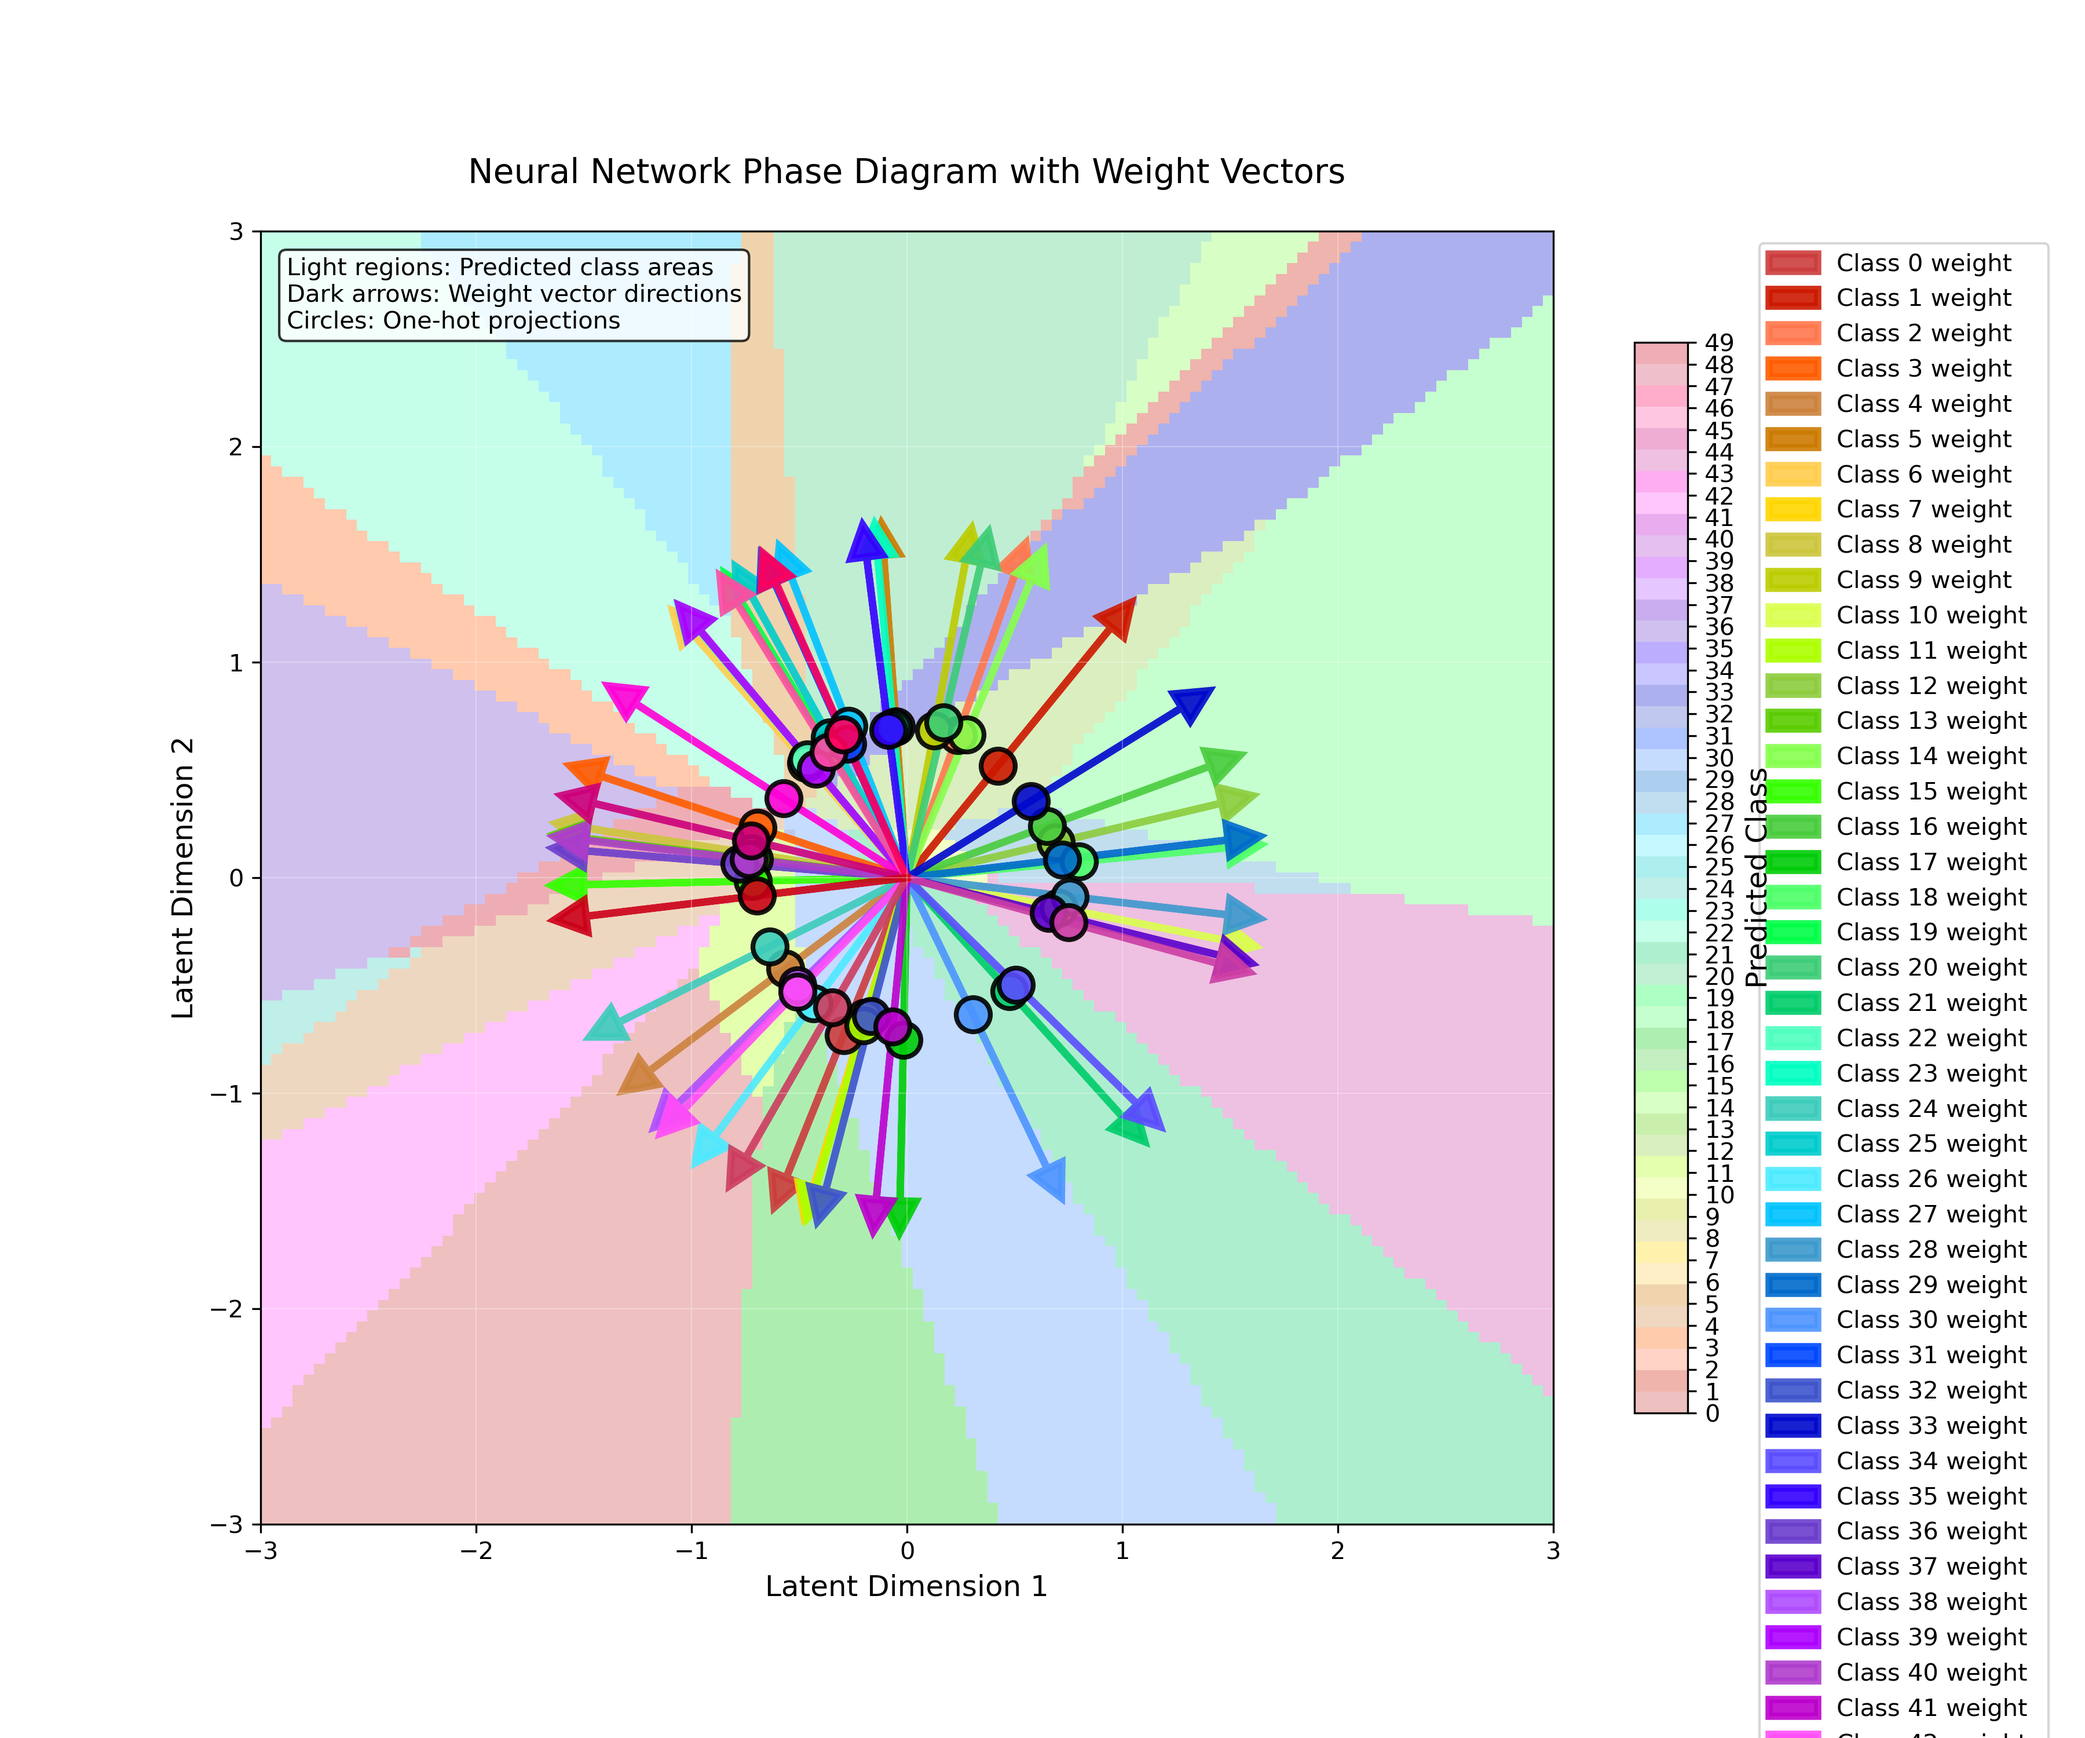
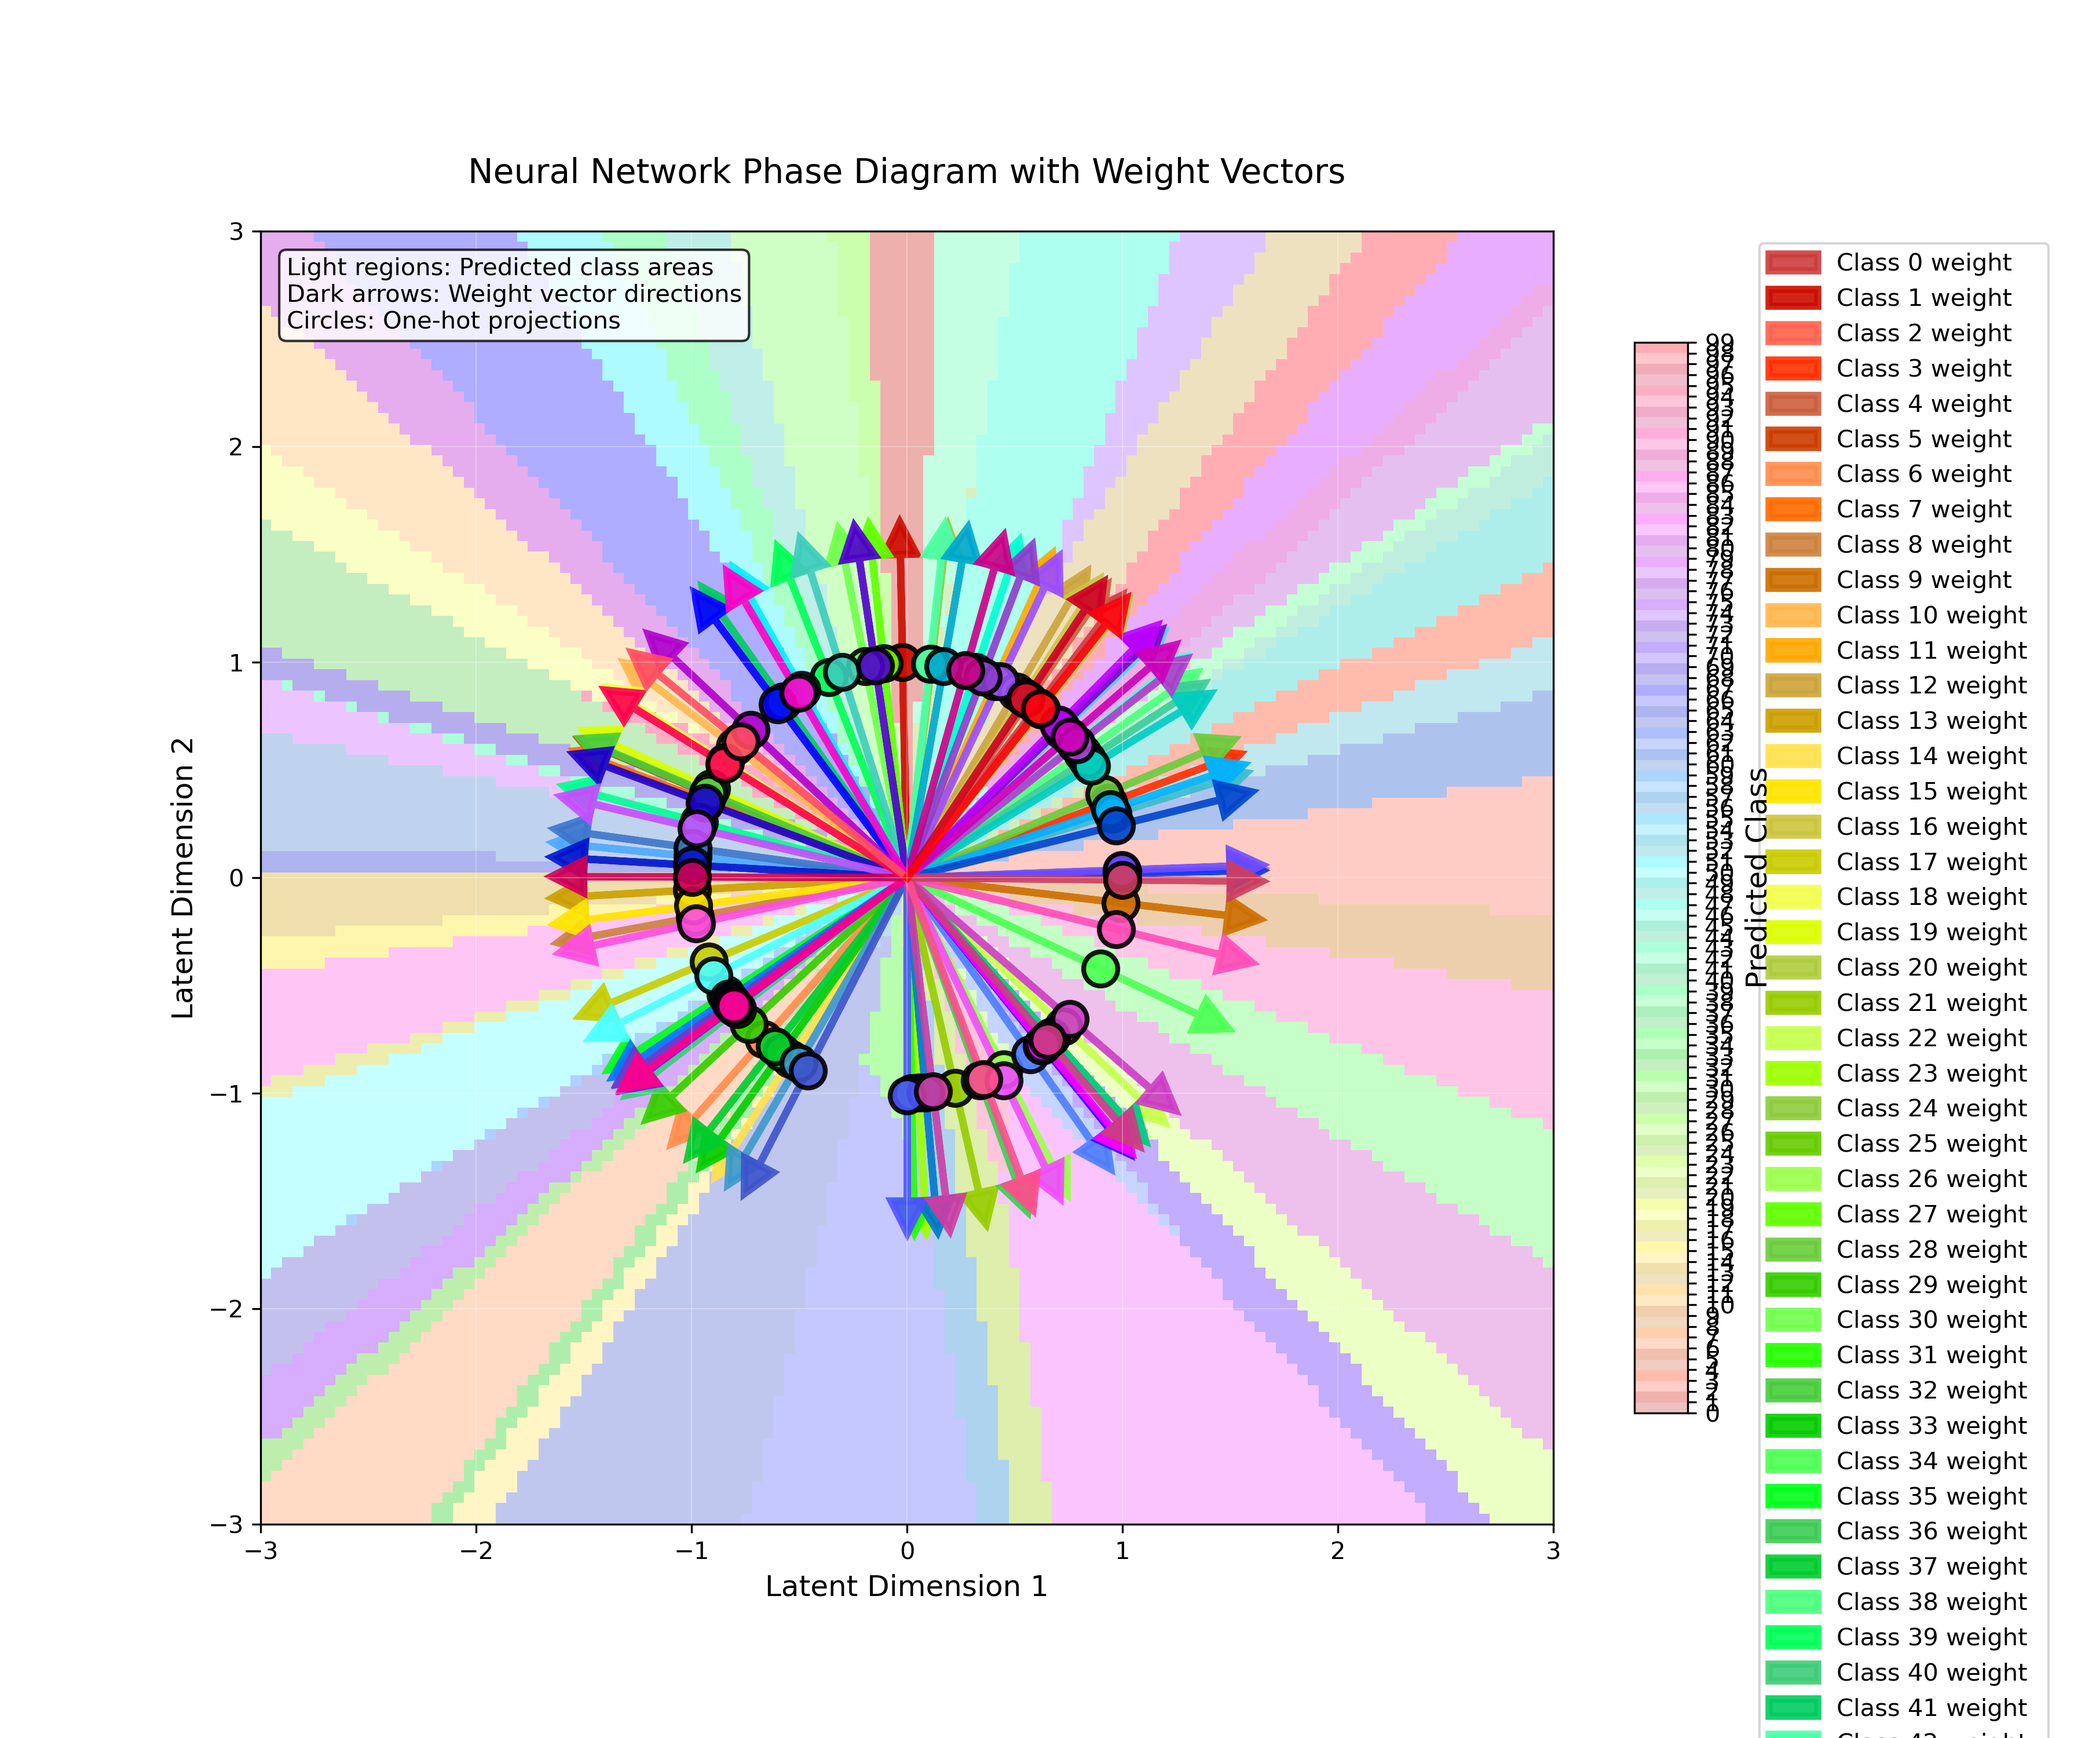
another interesting experiment

diff --git a/train_linear.py b/train_linear.py
@@ -7,7 +7,7 @@ from plots import create_enhanced_phase_diagram
 device = torch.device("cuda" if torch.cuda.is_available() else "mps" if torch.backends.mps.is_available() else "cpu")
 print(f"Using device: {device}")
 
-NUM_CLASSES = 50
+NUM_CLASSES = 100
 NUM_FEATURES = 2
 IMPORTANCE = (0.85 ** torch.arange(0, NUM_CLASSES)).to(device)
 
@@ -212,7 +212,7 @@ def train_linear(model, epochs, total_batchs, batch_size, optimizer, sparsity):
 
             # create tensor of 1s and 0s with probability sparsity
             sparsity_tensor = torch.bernoulli(torch.full((batch_size, NUM_CLASSES, 1), sparsity)).to(device)
-            sparsity_tensor = sparsity_tensor * 0.2
+            sparsity_tensor = sparsity_tensor * 0.005
             # sparsity_tensor = torch.zeros_like(x).to(device)
             sparsity_tensor[batch_indices, targets, 0] = 1
             assert x.shape == sparsity_tensor.shape
@@ -270,10 +270,10 @@ def train_relu(model, epochs, total_batchs, batch_size, loss_fn, optimizer, impo
 
 if __name__ == "__main__":
 
-    NUM_EPOCHS = 50
+    NUM_EPOCHS = 100
     BATCHS_PER_EPOCH =50
-    BATCH_SIZE = 64
-    LEARNING_RATE = 1e-2
+    BATCH_SIZE = 512
+    LEARNING_RATE = 5e-3
 
 
     model = ToyModelLinear().to(device)

diff --git a/plots.py b/plots.py
@@ -2,7 +2,7 @@ import torch
 import numpy as np
 import matplotlib.pyplot as plt
 
-NUM_CLASSES = 50
+NUM_CLASSES = 100
 
 def create_enhanced_phase_diagram(weights, unembedding_w, bias, device):
     """
